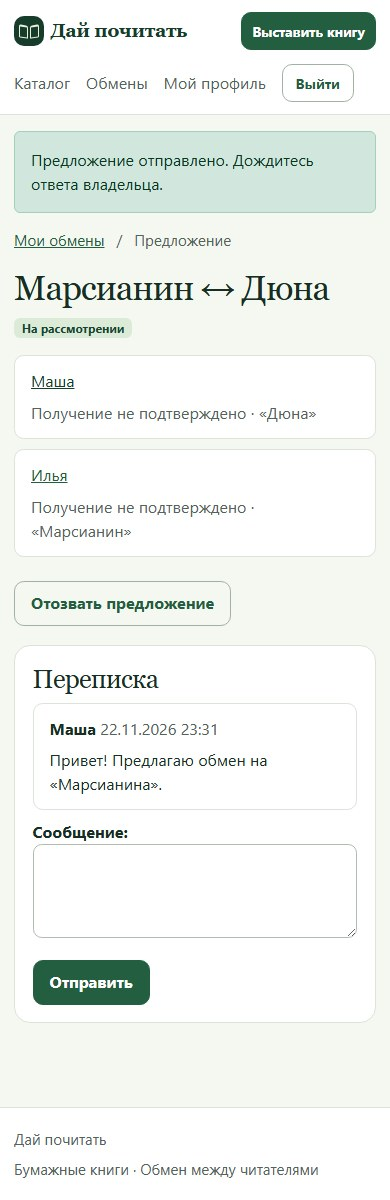
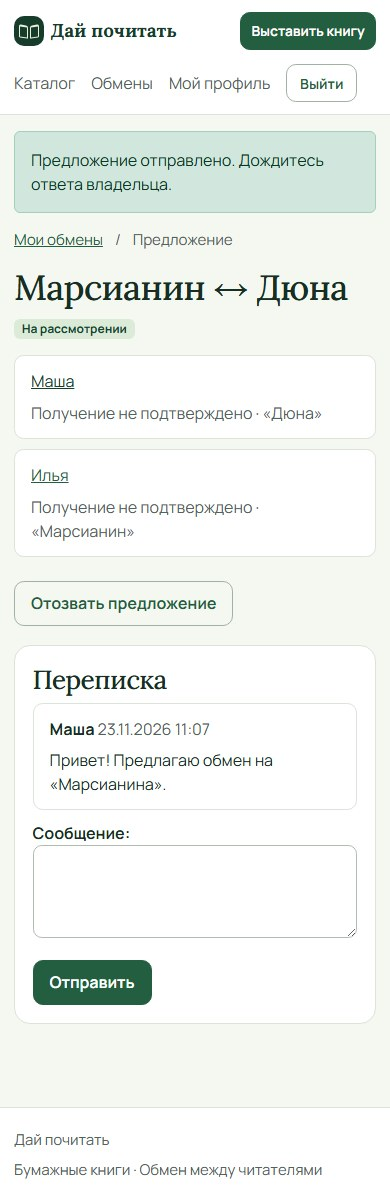
Use local book typography and refresh practice 8 verification

diff --git a/practices/practice_08/books/static/books/site.css b/practices/practice_08/books/static/books/site.css
@@ -7,8 +7,8 @@
   --action: #245e41;
   --line: #dce3d9;
   --focus: #23764b;
-  --display: Georgia, 'Times New Roman', serif;
-  --bs-body-font-family: 'Segoe UI', system-ui, sans-serif;
+  --display: 'Lora Variable', Georgia, 'Times New Roman', serif;
+  --bs-body-font-family: 'Manrope Variable', 'Segoe UI', system-ui, sans-serif;
   --bs-body-color: var(--ink);
   --bs-body-bg: var(--canvas);
   --bs-link-color-rgb: 36, 94, 65;
@@ -16,7 +16,7 @@
   --bs-border-color: var(--line);
 }
 body { min-height: 100vh; display: flex; flex-direction: column; }
-h1, h2, h3 { font-family: var(--display); font-weight: 500; letter-spacing: -.035em; overflow-wrap: anywhere; }
+h1, h2, h3 { font-family: var(--display); font-weight: 500; letter-spacing: -.025em; overflow-wrap: anywhere; }
 h1 { font-size: clamp(2.2rem, 5vw, 3.8rem); line-height: 1.04; }
 h2 { font-size: clamp(1.65rem, 3.2vw, 2.45rem); }
 h3 { font-size: 1.35rem; }

diff --git a/practices/practice_08/design/prototype.html b/practices/practice_08/design/prototype.html
@@ -3,10 +3,12 @@
 <meta charset="utf-8">
 <meta name="viewport" content="width=device-width, initial-scale=1">
 <title>Дай почитать — макет обмена</title>
+<link rel="stylesheet" href="../books/static/books/vendor/lora/index.css">
+<link rel="stylesheet" href="../books/static/books/vendor/manrope/index.css">
 <style>
-  :root {font: 16px/1.55 system-ui; color:#172c23; background:#f7f8f3}
+  :root {font: 16px/1.55 'Manrope Variable',system-ui,sans-serif; color:#172c23; background:#f7f8f3}
   body {max-width:1060px;margin:auto;padding:24px}
-  h1,h2,h3 {font-family:Georgia,serif;line-height:1.1}
+  h1,h2,h3,nav strong {font-family:'Lora Variable',Georgia,serif;line-height:1.1}
   h1 {font-size:clamp(2.6rem,6vw,4.4rem);margin:0 0 20px}
   h2 {font-size:2rem} a {color:inherit}
   nav, .states {display:flex;gap:12px;flex-wrap:wrap;align-items:center}

diff --git a/practices/practice_08/books/templates/books/base.html b/practices/practice_08/books/templates/books/base.html
@@ -5,6 +5,8 @@
   <meta name="viewport" content="width=device-width, initial-scale=1">
   <title>{% block title %}Дай почитать{% endblock %}</title>
   <link rel="stylesheet" href="{% static 'books/vendor/bootstrap.min.css' %}">
+  <link rel="stylesheet" href="{% static 'books/vendor/lora/index.css' %}">
+  <link rel="stylesheet" href="{% static 'books/vendor/manrope/index.css' %}">
   <link rel="stylesheet" href="{% static 'books/site.css' %}">
   <script src="{% static 'books/offer.js' %}" defer></script>
 </head>

diff --git a/practices/practice_08/README.md b/practices/practice_08/README.md
@@ -2,7 +2,7 @@
 
 ## «Дай почитать» · запуск и материалы
 
-Интерфейс использует Django Templates и Bootstrap 5.3.8. Для локального запуска нужны Python и Node.js. В PowerShell из папки `practices/practice_08` выполните:
+Интерфейс использует Django Templates и Bootstrap 5.3.8. Для заголовков используется Lora, для текста и форм — Manrope. Установка зависимостей копирует файлы обоих шрифтов в локальную статику. Для локального запуска нужны Python и Node.js. В PowerShell из папки `practices/practice_08` выполните:
 
 ```powershell
 python -m venv .venv
